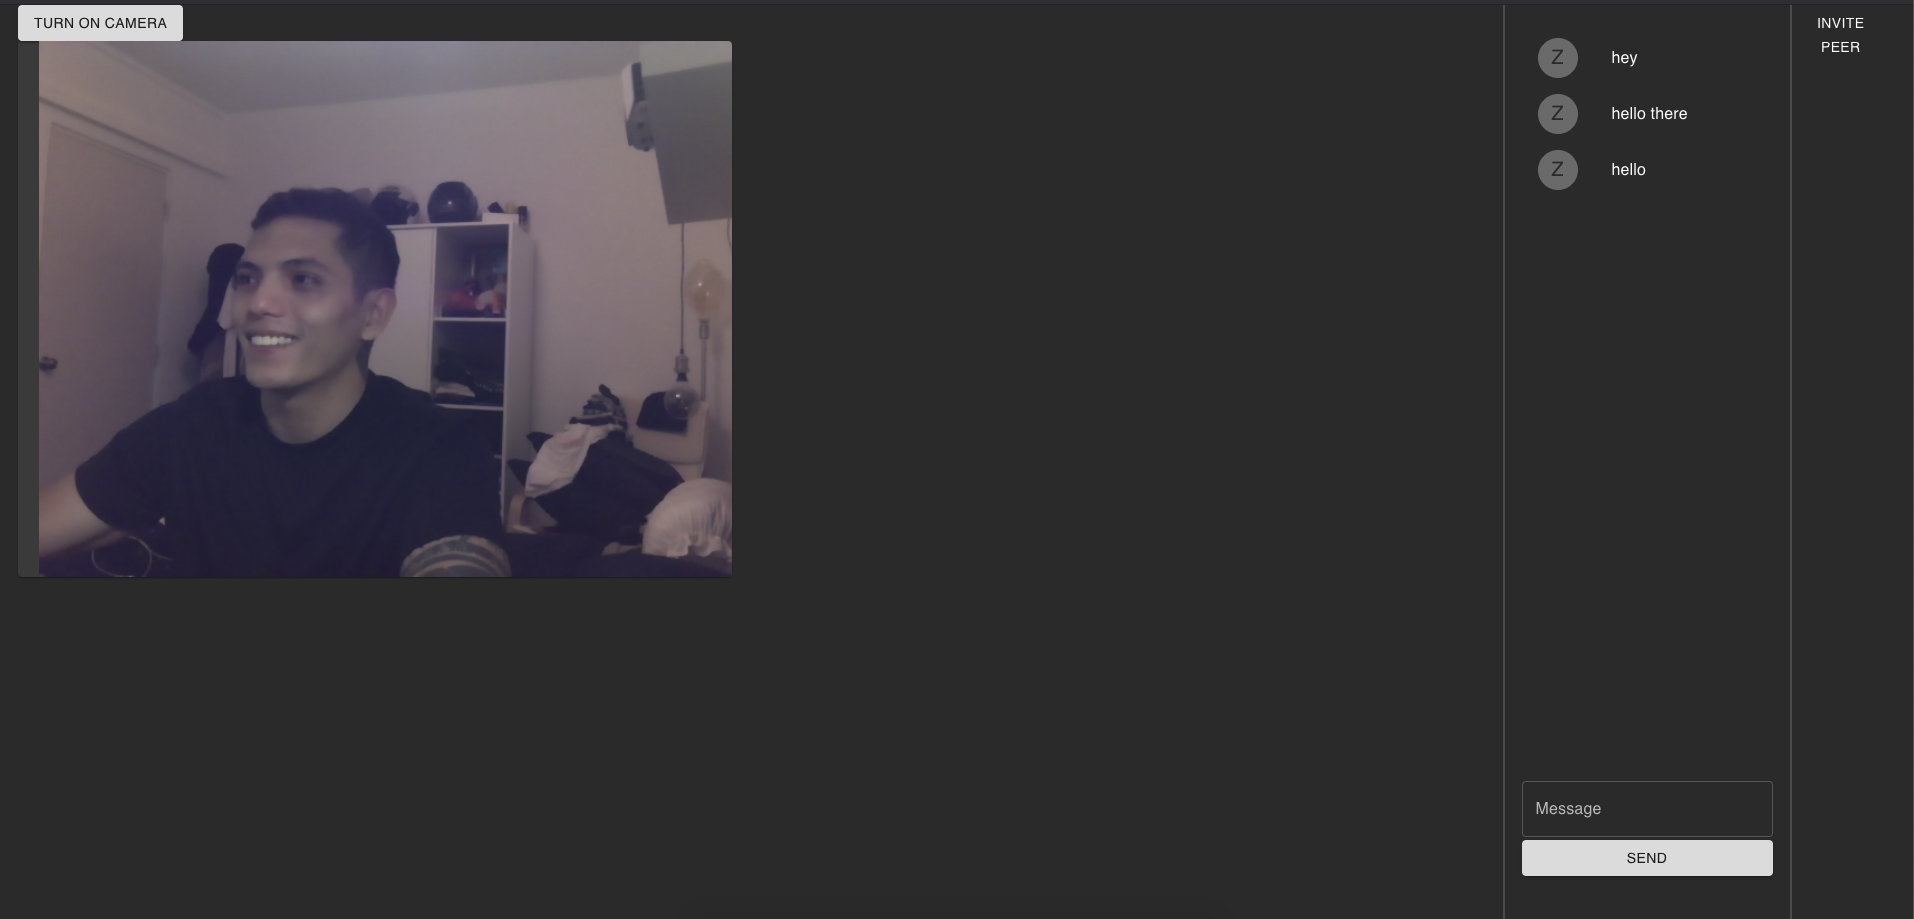
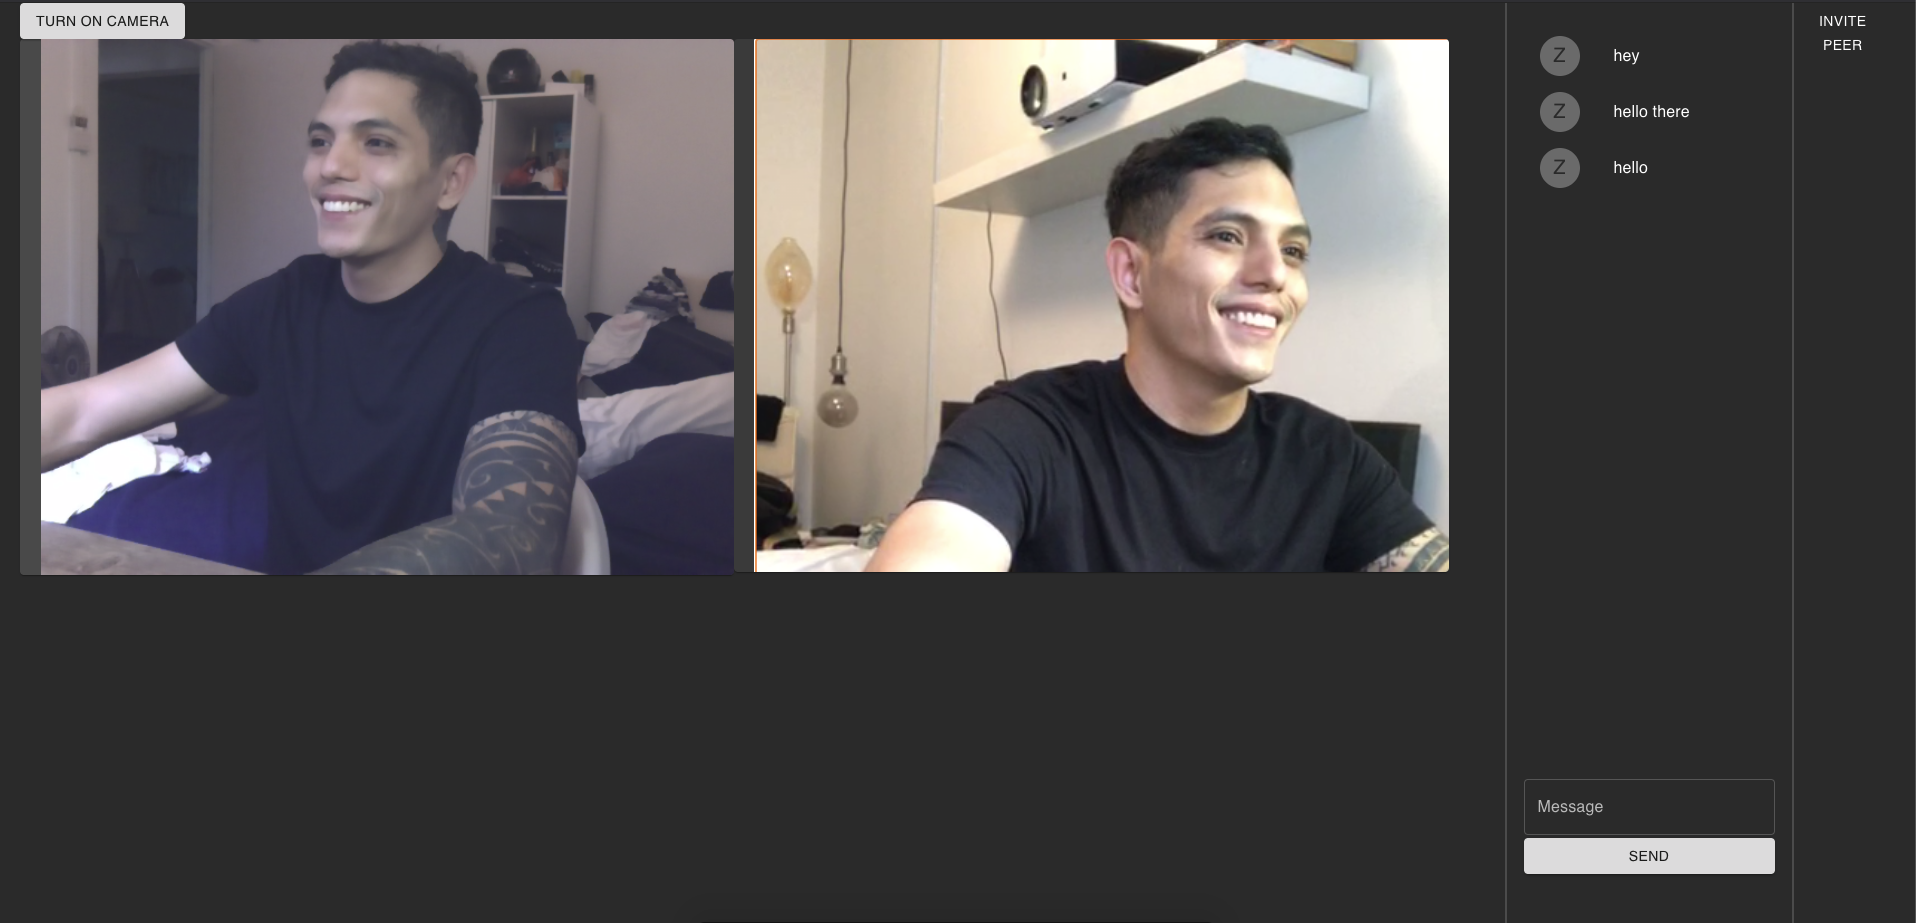
added gif for zzoom clone

diff --git a/index.html b/index.html
@@ -113,7 +113,17 @@
                     data-bs-ride="firstPorjectCarousel">
                     
                     <div class="carousel-inner">
+
                       <div class="carousel-item active">
+                        <img
+                          src="./assets/zoom-clone/zoom-add-peer.gif"
+                          class="d-block w-100"
+                          alt="..."
+                        />
+                      </div>
+
+
+                      <div class="carousel-item">
                         <img
                           src="./assets/zoom-clone/zoom.png"
                           class="d-block w-100"
